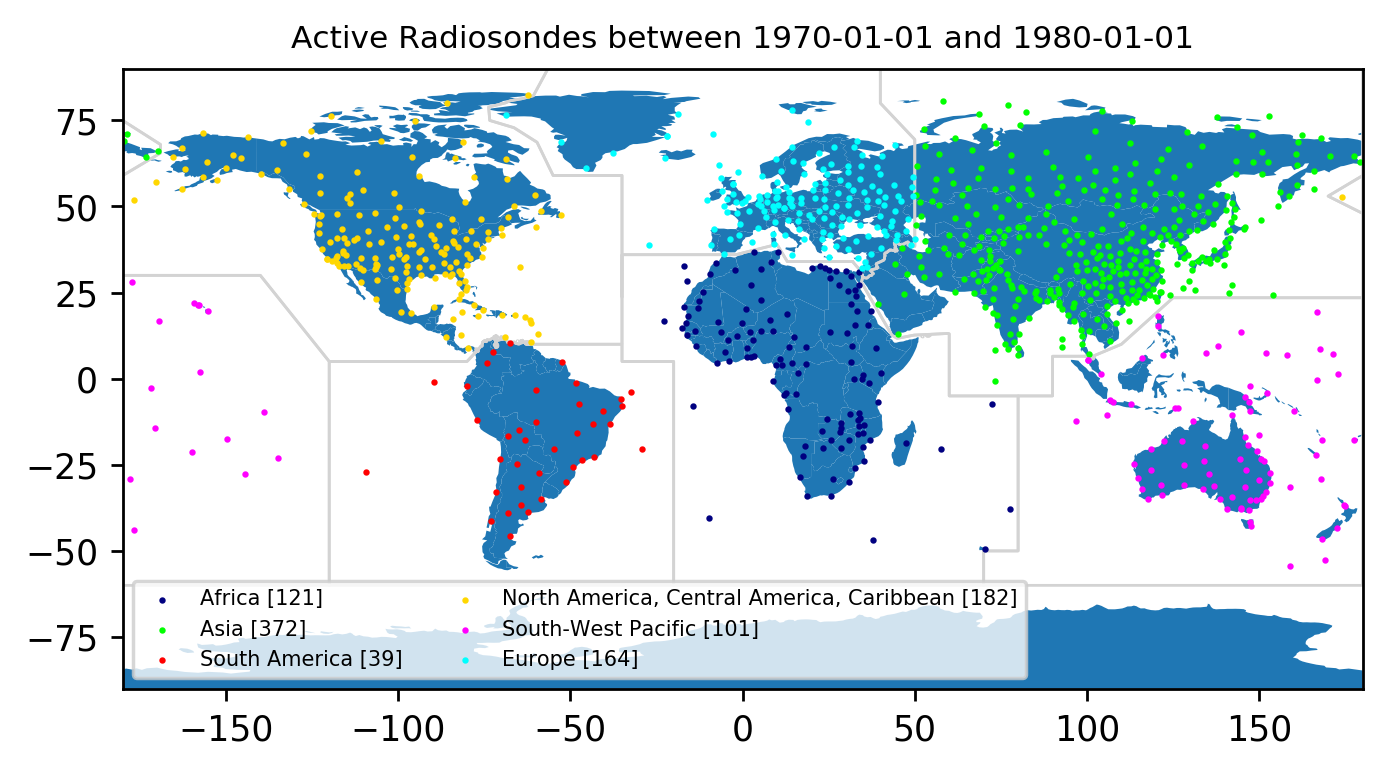
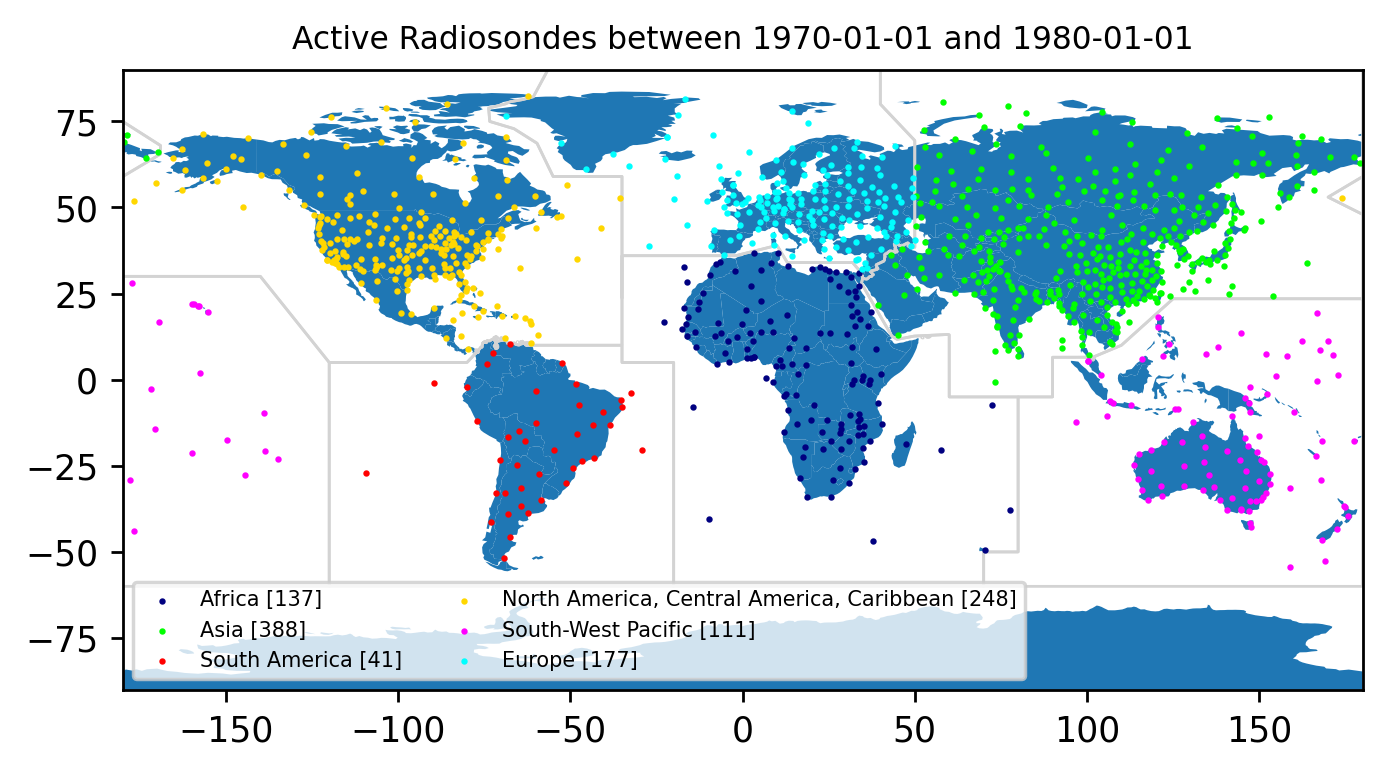
Up

diff --git a/CEUAS/dev_federico/world_plot/world_plot_shapely.py b/CEUAS/dev_federico/world_plot/world_plot_shapely.py
@@ -99,8 +99,11 @@ def make_plot_gpd(WMO, df, start_date = '', end_date = '' ):
 
     for i in range(6):
         #print('Plotting WMO region: ' , i )
-        a = df.loc[ (df['wmo'] == i ) & (df['start_date'] <= start_date) & (df['end_date'] >=  end_date)   ]
-	print(a)
+        #a = df.loc[ (df['wmo'] == i ) & (df['start_date'] <= start_date) & (df['end_date'] >=  end_date)   ]
+
+        a = df.loc[ (df['wmo'] == i ) & (df['start_date'] <= start_date) & (df['end_date'] >=  start_date)   ]
+
+	#print(a)
         lat = list(a['latitude'].astype(np.float32) )
         lon = list(a['longitude'].astype(np.float32) )
         col = style_dic[i+1]['c'] 
@@ -111,17 +114,8 @@ def make_plot_gpd(WMO, df, start_date = '', end_date = '' ):
         if len(lon) == 0:            
             lon.append(-999) 
             plotto = plt.scatter( lon, lat , color = col , label = lab + '[0]', s = 0.7 )
-  
-	else:
+        else:
             plotto = plt.scatter( lon, lat , color = col , label = lab + ' [' + str(len(lat)) + ']', s = 0.7 )
-
-    """        
-    for k in geoPoints.keys():
-        xs = [point.x for point in  geoPoints[k] ]
-        ys = [point.y for point in  geoPoints[k] ]        
-        #plt.scatter( xs, ys , color = style_dic[k+1]['c'] , label = 'WMO region: ' +  style_dic[k+1]['l'], s = 1.5 )
-        plt.scatter( xs, ys , color = style_dic[k+1]['c'] , label = style_dic[k+1]['l'], s = 1.6 )
-    """
  
     plt.xlim([-180.,180.])
     plt.ylim([-90.,90.])
@@ -182,7 +176,6 @@ def make_plot_anim(WMO, df, start_date = '', end_date = '' ):
             lon.append(-999)
 
         plot = plt.scatter( lon, lat , color = col , label = lab, s = 0.7 )
-	print(lat, lon)
     	#plt.savefig(str(i) + '_Map_shapely_' + start_date_string + '.png', dpi= 250,   bbox_inches = 'tight' )
         ims.append ( plot )
 
